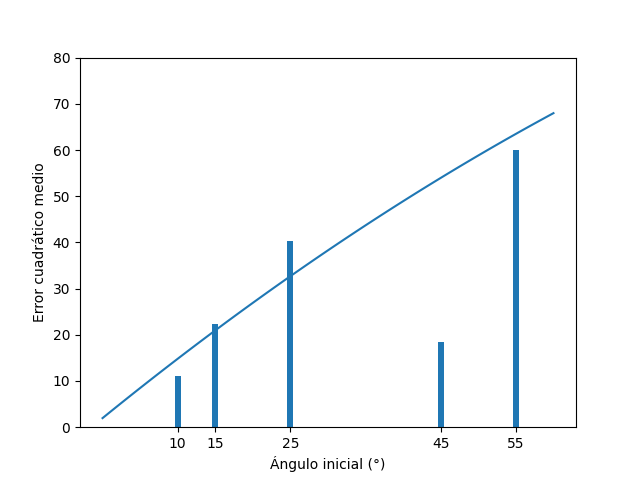
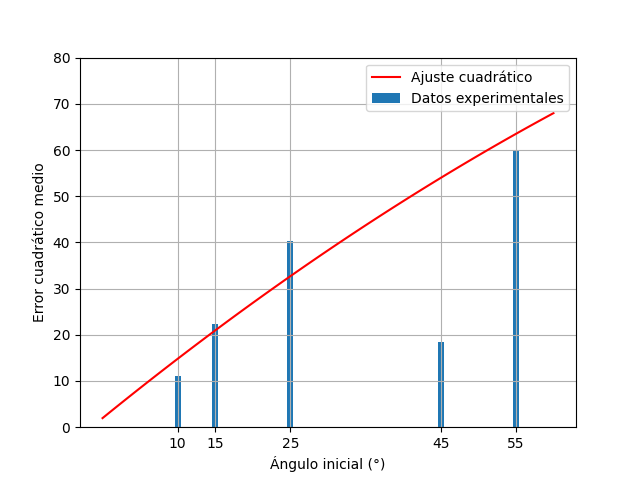
mas correciones

diff --git a/TP2/informe_tp2.tex b/TP2/informe_tp2.tex
@@ -155,7 +155,7 @@ El valor del ECM se presenta en la Figura \ref{fig:pequeñas_oscilaciones}, dond
 \begin{figure}[H]
     \centering
     \includegraphics[width=0.6\linewidth]{peq_oscilaciones.png}
-    \caption{Error cuadrático medio bajo la aproximación de pequeñas oscilaciones.}
+    \caption{Error cuadrático medio bajo la aproximación de pequeñas oscilaciones con m = 23.0 g y L = 42.0 cm.}
     \label{fig:pequeñas_oscilaciones}
 \end{figure}
 
@@ -163,7 +163,7 @@ Observando el gráfico de la Figura \ref{fig:pequeñas_oscilaciones}, determinam
 
 \section{Conclusiones}
 
-Se investigó el comportamiento de un péndulo simple y su relación con la longitud de la cuerda y la masa del péndulo, confirmando que bajo la asumpción de pequeñas oscilaciones la frecuencia de oscilación depende únicamente de la longitud. La gravedad efectiva obtenida fue de \(9.5 \pm 0.6 \, \text{m/s}^2\), consistente con el valor teórico esperado. Se observaron frecuencias angulares (\(\omega\)) de \(0.75 \, \text{s}^{-1}\) para \(42 \, \text{cm}\), \(0.98 \, \text{s}^{-1}\) para \(26 \, \text{cm}\) y \(1.3 \, \text{s}^{-1}\) para \(15 \, \text{cm}\), corroborando la relación inversa entre longitud y frecuencia. Adicionalmente, se determinó que el rango de ángulos donde se cumplen las condiciones de pequeñas oscilaciones es aproximadamente hasta $25^\circ$. Estos resultados reafirman los principios de la dinámica oscilatoria y respaldan la aplicación del modelo de pequeñas oscilaciones en el estudio de sistemas físicos similares.
+Se investigó el comportamiento de un péndulo simple y su relación con la longitud de la cuerda y la masa del péndulo, confirmando que bajo la asumpción de pequeñas oscilaciones la frecuencia de oscilación depende únicamente de la longitud. La gravedad efectiva obtenida fue de \((9.5 \pm 0.6) \, \text{m/s}^2\), consistente con el valor teórico esperado el cual es \((9.8 \pm 0.6) \, \text{m/s}^2\). Se observaron frecuencias angulares (\(\omega\)) de \((0.75 \pm 0.02)\, \text{s}^{-1}\) para \(42 \, \text{cm}\), \((0.98 \pm 0.02) \, \text{s}^{-1}\) para \(26 \, \text{cm}\) y \((1.3 \pm 0.02) \, \text{s}^{-1}\) para \(15 \, \text{cm}\), corroborando la relación inversa entre longitud y frecuencia con los valores teoricos, observamos que nuestros resultados son acertados de nuestro rango de error. Adicionalmente, se determinó que el rango de ángulos donde se cumplen las condiciones de pequeñas oscilaciones es aproximadamente hasta $25^\circ$. Estos resultados reafirman los principios de la dinámica oscilatoria y respaldan la aplicación del modelo de pequeñas oscilaciones en el estudio de sistemas físicos similares.
 
 
 \end{document}

diff --git a/TP2/pequenas_oscilaciones.py b/TP2/pequenas_oscilaciones.py
@@ -57,29 +57,44 @@ def main():
     # print(theta45[89])
     # print(theta60[73])
 
+    # Cálculo de errores cuadráticos medios (ejemplo basado en tu código)
     errores_cuadrarico_medio = []
     errores_cuadrarico_medio.append(plot_all_trayectories([theta10[1:251]], [9.4]))
     errores_cuadrarico_medio.append(plot_all_trayectories([theta15[28:278]], [15.2]))
     errores_cuadrarico_medio.append(plot_all_trayectories([theta25[8:258]], [25.3]))
     errores_cuadrarico_medio.append(plot_all_trayectories([theta45[32:282]], [43]))
     errores_cuadrarico_medio.append(plot_all_trayectories([theta60[0:250]], [53]))
-        # [theta10[56:306]]), 
-                            # theta15[86:336], theta25[73:326], theta45[99:349], theta60[:250]])
 
-    # bar chart de los errores cuadraticos medios
-    errores_cuadrarico_medio_2 = [0,errores_cuadrarico_medio[0], errores_cuadrarico_medio[1], errores_cuadrarico_medio[2], errores_cuadrarico_medio[4], 0]
-    params, p_cov = curve_fit(cuadratic_func, [0,10,15,25,55,360], errores_cuadrarico_medio_2, sigma=0.05*np.ones_like(errores_cuadrarico_medio_2), absolute_sigma=True)
+    # Preparación de datos de ajuste
+    errores_cuadrarico_medio_2 = [0, errores_cuadrarico_medio[0], errores_cuadrarico_medio[1], 
+                                errores_cuadrarico_medio[2], errores_cuadrarico_medio[4], 0]
+    params, p_cov = curve_fit(cuadratic_func, [0, 10, 15, 25, 55, 360], errores_cuadrarico_medio_2, 
+                            sigma=0.05 * np.ones_like(errores_cuadrarico_medio_2), absolute_sigma=True)
+
+    # Configuración de los ángulos
     angulos = [10, 15, 25, 45, 55]
-    plt.bar(angulos, errores_cuadrarico_medio)
+
+    # Gráfica de barras para los errores cuadráticos medios
+    plt.bar(angulos, errores_cuadrarico_medio, label="Datos experimentales")
+
+
+    # Configuración de la línea de ajuste cuadrático en rojo
     x = np.linspace(0, 60, 100)
+    plt.plot(x, cuadratic_func(x, *params), 'r-', label="Ajuste cuadrático")  # Línea en rojo con etiqueta
+
+    # Configuraciones del gráfico
     plt.ylim(0, 80)
-    plt.plot(x, cuadratic_func(np.array(x), *params))
     plt.xticks(angulos)
     plt.xlabel('Ángulo inicial (°)')
     plt.ylabel('Error cuadrático medio')
-    plt.savefig('TP2/peq_oscilaciones.png')
+    plt.legend()
+    plt.grid(True)  # Activar grid
+    plt.savefig('TP2/peq_oscilaciones.png')  # Guardar la imagen
     plt.show()
-    
+
+
+
+        
 
 
 if __name__ == '__main__':
